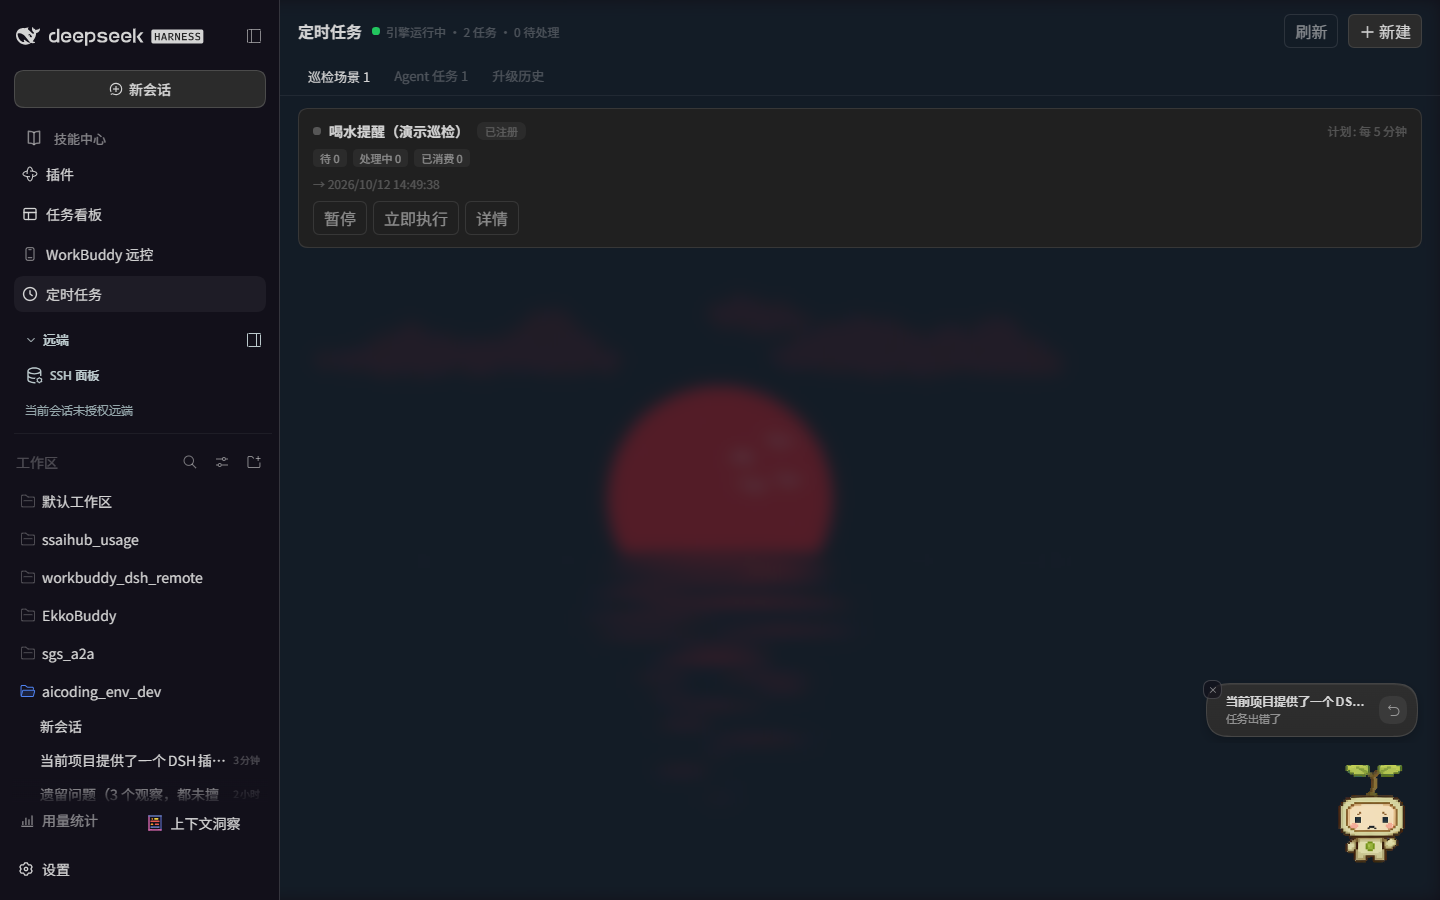
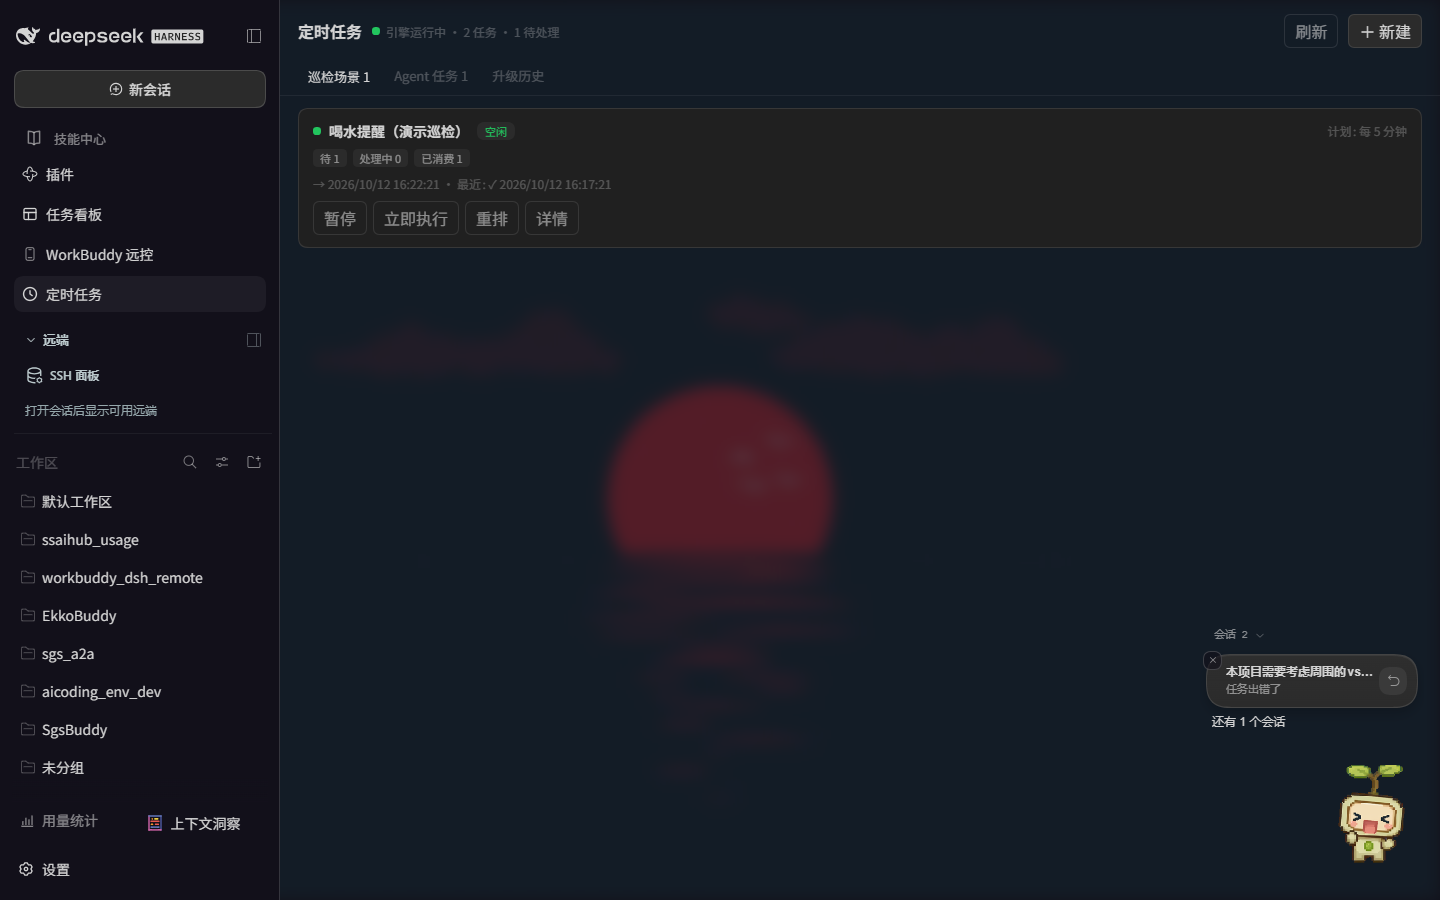
fix(dsh-loop-runner): make escalation actually run on dsh 0.2.0
Four production findings from the live ekkobuddy host, each caught by
real traffic and covered by a regression test:

- ctx.effect runs its callback immediately: route cleanup written as
  () => dispose() unregistered the panel routes the moment they were
  added. Disposers must be RETURNED.
- Cordis guards undeclared services: reading ctx.agents without inject
  throws, so 'agents' is now a hard inject (same as dsh-timer-agent).
- followup must be {id, role:'user', content, source:{kind:'user'}};
  a plugin-sourced or shape-short message is not admitted as a turn —
  whenIdle resolves with no assistant text.
- agents.create needs meta.cwd: the 0.2.0 persona assembly fails every
  turn with 'prompt variable {{cwd}} has no value' otherwise. Jobs now
  always carry a cwd (their workdir, else workdirRoot/loop-<id>).

Also: deterministic per-event session ids fall back to resume when a
failed attempt already persisted that session; turn/end error reasons
are surfaced into the escalation ledger instead of a bare 'no
assistant text'.

diff --git a/plugins/dsh-loop-runner/lib/host/escalation.js b/plugins/dsh-loop-runner/lib/host/escalation.js
@@ -14,6 +14,9 @@
  */
 
 import { createHash, randomUUID } from 'node:crypto'
+import { mkdirSync } from 'node:fs'
+import os from 'node:os'
+import path from 'node:path'
 
 /** Prompt payload cap: bounded context for the next LLM decision, never a dump. */
 const MAX_PAYLOAD_CHARS = 16000
@@ -63,6 +66,25 @@ export function extractAssistantText(session, startSeq) {
   } catch {
     return ''
   }
+}
+
+/**
+ * Last turn/end error reason in the log, if any — surfaces the real failure
+ * ("prompt variable {{cwd}} has no value…") instead of a bare "no assistant
+ * text".
+ */
+export function extractTurnError(session, startSeq) {
+  try {
+    const events = session.snapshotEvents(startSeq)
+    for (let i = events.length - 1; i >= 0; i--) {
+      const event = events[i]
+      if (event?.type !== 'turn/end') continue
+      const reason = event?.data?.reason ?? event?.reason
+      const message = reason?.error?.message ?? reason?.message
+      if (reason?.kind === 'error' || message) return String(message ?? JSON.stringify(reason).slice(0, 200))
+    }
+  } catch { /* best effort */ }
+  return null
 }
 
 export class Escalator {
@@ -145,7 +167,11 @@ export class Escalator {
 
     const suffix = event ? hash8(event.eventId) : `${this.now().toString(36)}${Math.random().toString(36).slice(2, 5)}`
     const sessionId = `loop-${slug(job.id)}-${suffix}`
-    const cwd = job.escalation?.workdir || undefined
+    // dsh 0.2.0's persona assembly REQUIRES {{cwd}}: a session created without
+    // meta.cwd fails every turn with `prompt variable "{{cwd}}" has no value`
+    // (section "deployment:persona-suffix"). Always carry one — the job's
+    // workdir, else a per-job dir under workdirRoot.
+    const cwd = this.resolveCwd(job)
     let handle
     let reused = false
 
@@ -157,7 +183,7 @@ export class Escalator {
       try {
         handle = await (mode === 'pinned' && job.pinnedSessionId
           ? agents.resume({ resumeSessionId: job.pinnedSessionId, ...(Object.keys(agentOptions).length ? { agentOptions } : {}) })
-          : agents.create({ sessionId, ...(Object.keys(agentOptions).length ? { agentOptions } : {}), ...(cwd ? { meta: { cwd } } : {}) }))
+          : await createOrResume(agents, { sessionId, agentOptions, cwd }))
         if (mode === 'pinned') {
           const liveId = handle?.agent?.session?.id ?? sessionId
           this.store.mutate((s) => { const live = s.jobs[job.id]; if (live) live.pinnedSessionId = liveId })
@@ -169,10 +195,10 @@ export class Escalator {
         if (mode !== 'pinned') throw error
         this.logger.warn?.(`[loop-runner] pinned resume failed for ${job.id}, creating fresh: ${error?.message || error}`)
         this.pinned.delete(job.id)
-        handle = await agents.create({
-          sessionId,
-          ...(Object.keys(agentOptions).length ? { agentOptions } : {}),
-          ...(cwd ? { meta: { cwd } } : {}),
+        handle = await createOrResume(agents, {
+          sessionId: `${sessionId}-${this.now().toString(36)}`,
+          agentOptions,
+          cwd,
         })
         const liveId = handle?.agent?.session?.id ?? sessionId
         this.store.mutate((s) => { const live = s.jobs[job.id]; if (live) live.pinnedSessionId = liveId })
@@ -185,11 +211,16 @@ export class Escalator {
     const finalSessionId = agent.session?.id ?? sessionId
     this.attachWorkspace(finalSessionId, cwd)
 
+    // Message shape verified live on dsh 0.2.0 by dsh-client-auto-continue's
+    // own auto-send: {id, role:'user', content, source:{kind:'user'}}. A
+    // `plugin`-sourced followup is NOT admitted as a turn here — the turn
+    // errors out before a user/message event lands and whenIdle resolves
+    // with no assistant text.
     agent.followup({
       id: randomUUID(),
       role: 'user',
       content: [{ type: 'text', text: prompt }],
-      source: { kind: 'plugin', plugin: 'dsh-loop-runner' },
+      source: { kind: 'user' },
     })
 
     let timedOut = false
@@ -217,9 +248,23 @@ export class Escalator {
     // Pinned handles stay alive for the next fire; fresh ones are one-shot.
     if (mode !== 'pinned') await disposeHandle(handle)
     if (!text) {
-      return { ok: false, sessionId: finalSessionId, error: 'agent produced no assistant text' }
+      const turnError = extractTurnError(agent.session, startSeq)
+      return {
+        ok: false,
+        sessionId: finalSessionId,
+        error: turnError ? `agent turn failed: ${turnError}` : 'agent produced no assistant text',
+      }
     }
     return { ok: true, sessionId: finalSessionId, text }
+  }
+
+  /** Job workdir, else a per-job directory under workdirRoot (created lazily). */
+  resolveCwd(job) {
+    if (job.escalation?.workdir) return job.escalation.workdir
+    const root = this.defaults.workdirRoot || path.join(os.homedir(), 'workspaces')
+    const dir = path.join(root, `loop-${slug(job.id)}`)
+    try { mkdirSync(dir, { recursive: true }) } catch { /* best effort; meta.cwd still names it */ }
+    return dir
   }
 
   /**
@@ -251,6 +296,28 @@ export class Escalator {
         this.logger.warn?.(`[loop-runner] workspace attach failed (${error?.message || error}); runs still work, only sidebar grouping is missing`)
       }
     }
+  }
+}
+
+/**
+ * Create a session, resuming it when a previous attempt already persisted that
+ * deterministic id (an escalation that failed mid-turn leaves the session on
+ * disk; retrying the same event must not die on the collision).
+ */
+async function createOrResume(agents, { sessionId, agentOptions, cwd }) {
+  const create = () => agents.create({
+    sessionId,
+    ...(Object.keys(agentOptions).length ? { agentOptions } : {}),
+    ...(cwd ? { meta: { cwd } } : {}),
+  })
+  try {
+    return await create()
+  } catch (error) {
+    if (!/already exists/i.test(String(error?.message || error))) throw error
+    return await agents.resume({
+      resumeSessionId: sessionId,
+      ...(Object.keys(agentOptions).length ? { agentOptions } : {}),
+    })
   }
 }
 

diff --git a/plugins/dsh-loop-runner/lib/index.js b/plugins/dsh-loop-runner/lib/index.js
@@ -29,7 +29,12 @@ import { registerTools, SYSTEM_PROMPT_GUIDANCE } from './host/tools.js'
 import { registerRoutes } from './host/routes.js'
 
 export const name = 'dsh-loop-runner'
-export const inject = ['webServer', 'tools', 'systemPrompt']
+// 'agents' is injected on purpose: Cordis throws `cannot get property "agents"
+// without inject` on undeclared service access, so the lazy-read trick does
+// not work on 0.2.0. A host without agent services cannot use this plugin
+// anyway — parking the fiber there is the honest outcome (same choice as
+// dsh-timer-agent, the 0.2.0-native reference).
+export const inject = ['webServer', 'tools', 'systemPrompt', 'agents']
 
 export const Config = Schema.object({
   enabled: Schema.boolean().default(true),
@@ -41,6 +46,7 @@ export const Config = Schema.object({
   escalationProvider: Schema.string().default(''),
   escalationModel: Schema.string().default(''),
   escalationTimeoutMinutes: Schema.number().default(30).min(1),
+  workdirRoot: Schema.string().default(''),
   consumerMaxAttempts: Schema.number().default(5).min(1),
   seenRetentionDays: Schema.number().default(90).min(1),
   eventRetentionDays: Schema.number().default(30).min(1),
@@ -82,6 +88,7 @@ export function apply(ctx, config = {}) {
       provider: config.escalationProvider ?? '',
       model: config.escalationModel ?? '',
       timeoutMinutes: config.escalationTimeoutMinutes ?? 30,
+      workdirRoot: config.workdirRoot ?? '',
     },
     logger,
   })

diff --git a/plugins/dsh-loop-runner/README.md b/plugins/dsh-loop-runner/README.md
@@ -67,9 +67,10 @@ dsh plugin --profile web add dsh-loop-runner        # from npm (once published)
 dsh plugin --profile web add ./dsh-loop-runner-0.1.0.tgz
 ```
 
-Requires a `dsh web` profile (the panel rides the web server) and an agents-providing host
-for escalations. Without agent services the plugin still boots — escalations fail with a
-clear message instead of taking the profile down.
+Requires a `dsh web` profile (the panel rides the web server) whose host also
+provides agent services (`agents` is a hard inject — escalation is the point of
+the plugin). On a host without them the plugin parks and the boot fails loudly
+instead of escalating into nothing.
 
 ## Config (all optional, schemastery defaults)
 
